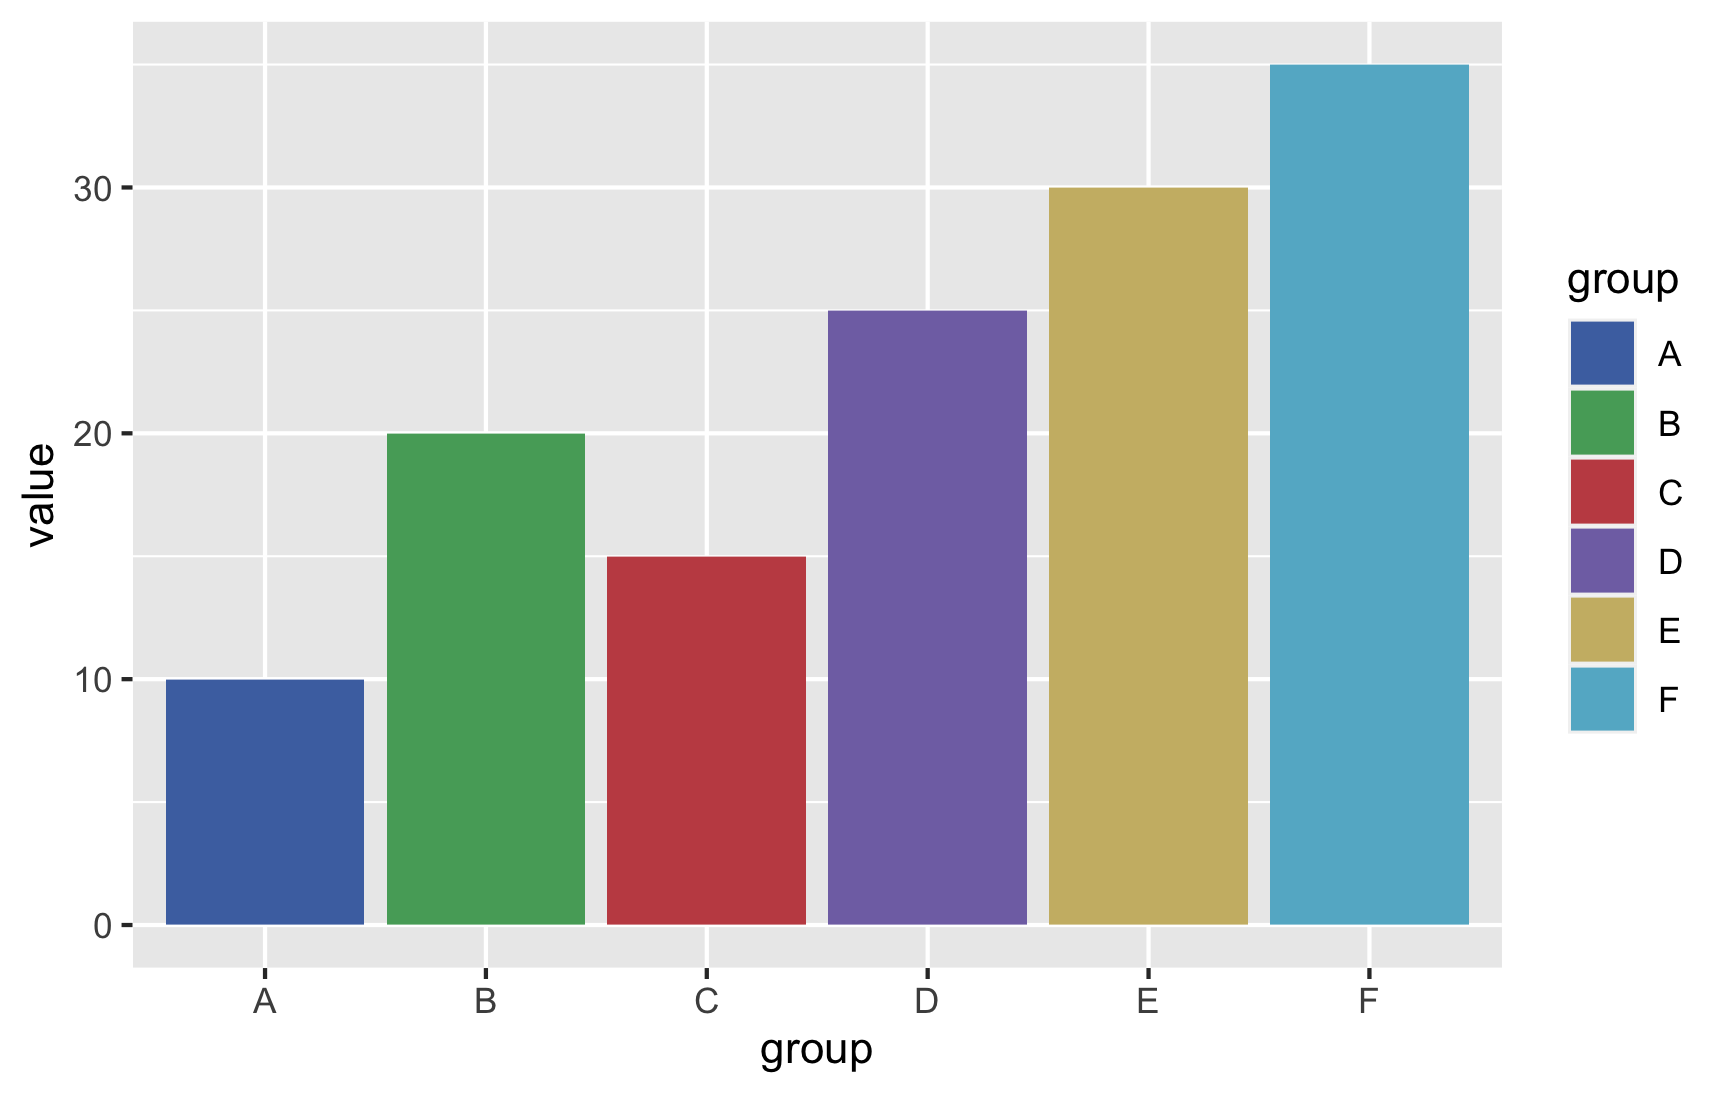
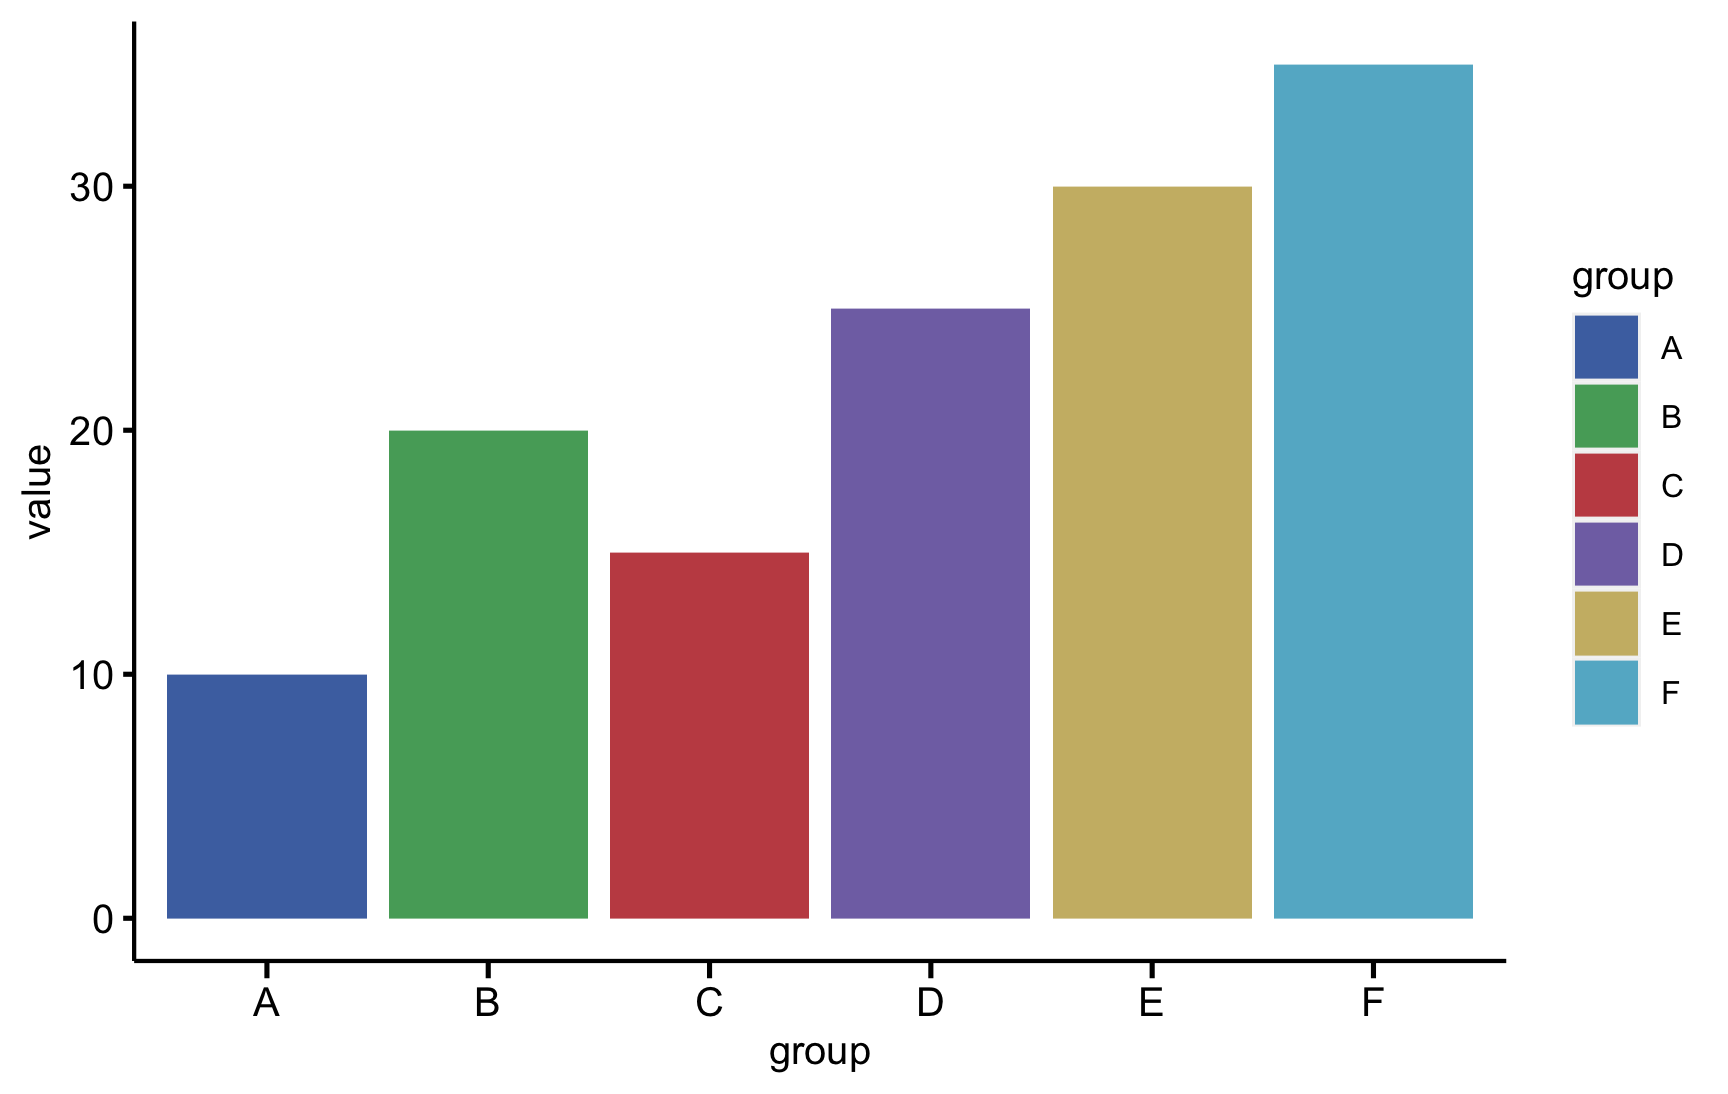
R colors and barplot with same width

diff --git a/docs/blog/2022/01/22/index.html b/docs/blog/2022/01/22/index.html
@@ -237,7 +237,7 @@ code span.wa { color: #60a0b0; font-weight: bold; font-style: italic; } /* Warni
 </div>
 </div>
 </section><section id="friendly-colors" class="level2"><h2 class="anchored" data-anchor-id="friendly-colors">Friendly colors</h2>
-<div>
+<div class="cell" data-layout-align="center">
 <div class="sourceCode" id="cb2"><pre class="downlit sourceCode r code-with-copy"><code class="sourceCode R"><span><span class="co">## Use color blind-friendly palette:</span></span>
 <span><span class="va">cbp1</span> <span class="op">&lt;-</span> <span class="fu"><a href="https://rdrr.io/r/base/c.html">c</a></span><span class="op">(</span></span>
 <span>  <span class="st">"#999999"</span>, </span>
@@ -250,14 +250,10 @@ code span.wa { color: #60a0b0; font-weight: bold; font-style: italic; } /* Warni
 <span>  <span class="st">"#CC79A7"</span></span>
 <span><span class="op">)</span></span>
 <span><span class="fu"><a href="https://rdrr.io/r/graphics/barplot.html">barplot</a></span><span class="op">(</span><span class="fl">1</span><span class="op">:</span><span class="fl">8</span>, col <span class="op">=</span> <span class="va">cbp1</span><span class="op">)</span></span></code><button title="Copy to Clipboard" class="code-copy-button"><i class="bi"></i></button></pre></div>
-<div class="cell quarto-layout-panel">
-<div class="quarto-layout-row quarto-layout-valign-top">
-<div class="cell-output-display quarto-layout-cell" style="flex-basis: 50.0%;justify-content: center;">
+<div class="cell-output-display">
 <div class="quarto-figure quarto-figure-center">
-<figure class="figure"><p><img src="index_files/figure-html/unnamed-chunk-2-1.png" class="img-fluid figure-img"></p>
+<figure class="figure"><p><img src="index_files/figure-html/unnamed-chunk-2-1.png" class="img-fluid figure-img" style="width:85.0%"></p>
 </figure>
-</div>
-</div>
 </div>
 </div>
 </div>
@@ -284,6 +280,21 @@ code span.wa { color: #60a0b0; font-weight: bold; font-style: italic; } /* Warni
 </div>
 <div class="cell" data-layout-align="center">
 <div class="sourceCode" id="cb4"><pre class="downlit sourceCode r code-with-copy"><code class="sourceCode R"><span><span class="kw"><a href="https://rdrr.io/r/base/library.html">library</a></span><span class="op">(</span><span class="va"><a href="https://ggplot2.tidyverse.org">ggplot2</a></span><span class="op">)</span></span>
+<span></span>
+<span><span class="fu"><a href="https://ggplot2.tidyverse.org/reference/theme_get.html">theme_set</a></span><span class="op">(</span></span>
+<span>    <span class="fu"><a href="https://ggplot2.tidyverse.org/reference/theme.html">theme</a></span><span class="op">(</span></span>
+<span>        text <span class="op">=</span> <span class="fu"><a href="https://ggplot2.tidyverse.org/reference/element.html">element_text</a></span><span class="op">(</span>size <span class="op">=</span> <span class="fl">10</span>, family <span class="op">=</span> <span class="st">"Arial"</span><span class="op">)</span>,</span>
+<span>        panel.background <span class="op">=</span> <span class="fu"><a href="https://ggplot2.tidyverse.org/reference/element.html">element_rect</a></span><span class="op">(</span>fill <span class="op">=</span> <span class="cn">NA</span>, color <span class="op">=</span> <span class="cn">NA</span><span class="op">)</span>,</span>
+<span>        axis.title <span class="op">=</span> <span class="fu"><a href="https://ggplot2.tidyverse.org/reference/element.html">element_text</a></span><span class="op">(</span>size <span class="op">=</span> <span class="fl">10</span>, color <span class="op">=</span> <span class="st">"black"</span><span class="op">)</span>,</span>
+<span>        axis.text <span class="op">=</span> <span class="fu"><a href="https://ggplot2.tidyverse.org/reference/element.html">element_text</a></span><span class="op">(</span>size <span class="op">=</span> <span class="fl">10</span>, color <span class="op">=</span> <span class="st">"black"</span><span class="op">)</span>,</span>
+<span>        <span class="co"># axis.text.x = element_text(angle = 45, hjust = 1, vjust = 1),</span></span>
+<span>        axis.ticks.length.x <span class="op">=</span> <span class="fu"><a href="https://rdrr.io/r/grid/unit.html">unit</a></span><span class="op">(</span><span class="fl">0.3</span>, <span class="st">"lines"</span><span class="op">)</span>,</span>
+<span>        axis.line <span class="op">=</span> <span class="fu"><a href="https://ggplot2.tidyverse.org/reference/element.html">element_line</a></span><span class="op">(</span>colour <span class="op">=</span> <span class="st">"Black"</span><span class="op">)</span>,</span>
+<span>        axis.ticks <span class="op">=</span> <span class="fu"><a href="https://ggplot2.tidyverse.org/reference/element.html">element_line</a></span><span class="op">(</span>colour <span class="op">=</span> <span class="st">"black"</span>, linewidth <span class="op">=</span> <span class="fl">0.6</span><span class="op">)</span>,</span>
+<span>        plot.title <span class="op">=</span> <span class="fu"><a href="https://ggplot2.tidyverse.org/reference/element.html">element_text</a></span><span class="op">(</span>face <span class="op">=</span> <span class="st">"bold"</span>, hjust <span class="op">=</span> <span class="fl">0.5</span>, size <span class="op">=</span> <span class="fl">10</span><span class="op">)</span></span>
+<span>    <span class="op">)</span></span>
+<span><span class="op">)</span></span>
+<span></span>
 <span><span class="va">friendly_colors</span> <span class="op">&lt;-</span> <span class="fu"><a href="https://rdrr.io/r/base/c.html">c</a></span><span class="op">(</span></span>
 <span>  <span class="st">"#4C72B0"</span>, </span>
 <span>  <span class="st">"#55A868"</span>, </span>

diff --git a/docs/blog/index.html b/docs/blog/index.html
@@ -254,7 +254,7 @@ ul.task-list li input[type="checkbox"] {
 <h2 class="anchored" data-anchor-id="section">2023</h2>
 <div id="listing-posts_2023" class="quarto-listing quarto-listing-container-custom">
 <div class="list blog">
-    <div class="blog-entry" data-index="0" data-categories="barplot,R" data-listing-date-sort="1678032000000" data-listing-file-modified-sort="1678110867935" data-listing-reading-time-sort="2.02">
+    <div class="blog-entry" data-index="0" data-categories="barplot,R" data-listing-date-sort="1678032000000" data-listing-file-modified-sort="1678114424653" data-listing-reading-time-sort="2.02">
         <div class="metadata">          
             <p class="date listing-date">March 6, 2023</p>
         </div>
@@ -271,7 +271,7 @@ ul.task-list li input[type="checkbox"] {
             <p class="description listing-description">In this example, we set widths to be a data frame that specifies the widths for each group and variant. We set the width for v2 in group A to 0 to hide the bar for…</p>
         </div>
         <div class="thumbnail">
-            <img src="../blog/2023/03/01/borplot.png" alt="Equalizing Bar Widths" title="Equalizing Bar Widths">
+            <img src="../blog/2023/03/01/barplot.png" alt="Equalizing Bar Widths" title="Equalizing Bar Widths">
         </div>
     </div>
 </div>
@@ -550,7 +550,7 @@ No matching items
             <img src="../blog/2022/02/01/barplot.png" alt="Add errorbar and p-value on barplot with ggsignif" title="Add errorbar and p-value on barplot with ggsignif">
         </div>
     </div>
-    <div class="blog-entry" data-index="13" data-categories="R,colors" data-listing-date-sort="1642780800000" data-listing-file-modified-sort="1678110168748" data-listing-reading-time-sort="1.165">
+    <div class="blog-entry" data-index="13" data-categories="R,colors" data-listing-date-sort="1642780800000" data-listing-file-modified-sort="1678111969114" data-listing-reading-time-sort="1.87">
         <div class="metadata">          
             <p class="date listing-date">January 22, 2022</p>
         </div>

diff --git a/docs/atom.html b/docs/atom.html
@@ -267,9 +267,9 @@ Guorui Zhong
 </a>
 </div>
 </div>
-<div class="quarto-post image-right" data-index="3" data-categories="barplot,R" data-listing-date-sort="1678032000000" data-listing-file-modified-sort="1678110867935" data-listing-reading-time-sort="2.02">
+<div class="quarto-post image-right" data-index="3" data-categories="barplot,R" data-listing-date-sort="1678032000000" data-listing-file-modified-sort="1678114424653" data-listing-reading-time-sort="2.02">
 <div class="thumbnail">
-<p><a href="./blog/2023/03/01/index.html"> <img src="./blog/2023/03/01/borplot.png" class="thumnail-image"> </a></p>
+<p><a href="./blog/2023/03/01/index.html"> <img src="./blog/2023/03/01/barplot.png" class="thumnail-image"> </a></p>
 </div>
 <div class="body">
 <a href="./blog/2023/03/01/index.html">
@@ -323,7 +323,7 @@ Guorui Zhong
 </a>
 </div>
 </div>
-<div class="quarto-post image-right" data-index="5" data-categories="R,colors" data-listing-date-sort="1642780800000" data-listing-file-modified-sort="1678110168748" data-listing-reading-time-sort="1.165">
+<div class="quarto-post image-right" data-index="5" data-categories="R,colors" data-listing-date-sort="1642780800000" data-listing-file-modified-sort="1678111969114" data-listing-reading-time-sort="1.87">
 <div class="thumbnail">
 <p><a href="./blog/2022/01/22/index.html"> <img src="./blog/2022/01/22/colorblind_palette.jpg" class="thumnail-image"> </a></p>
 </div>
